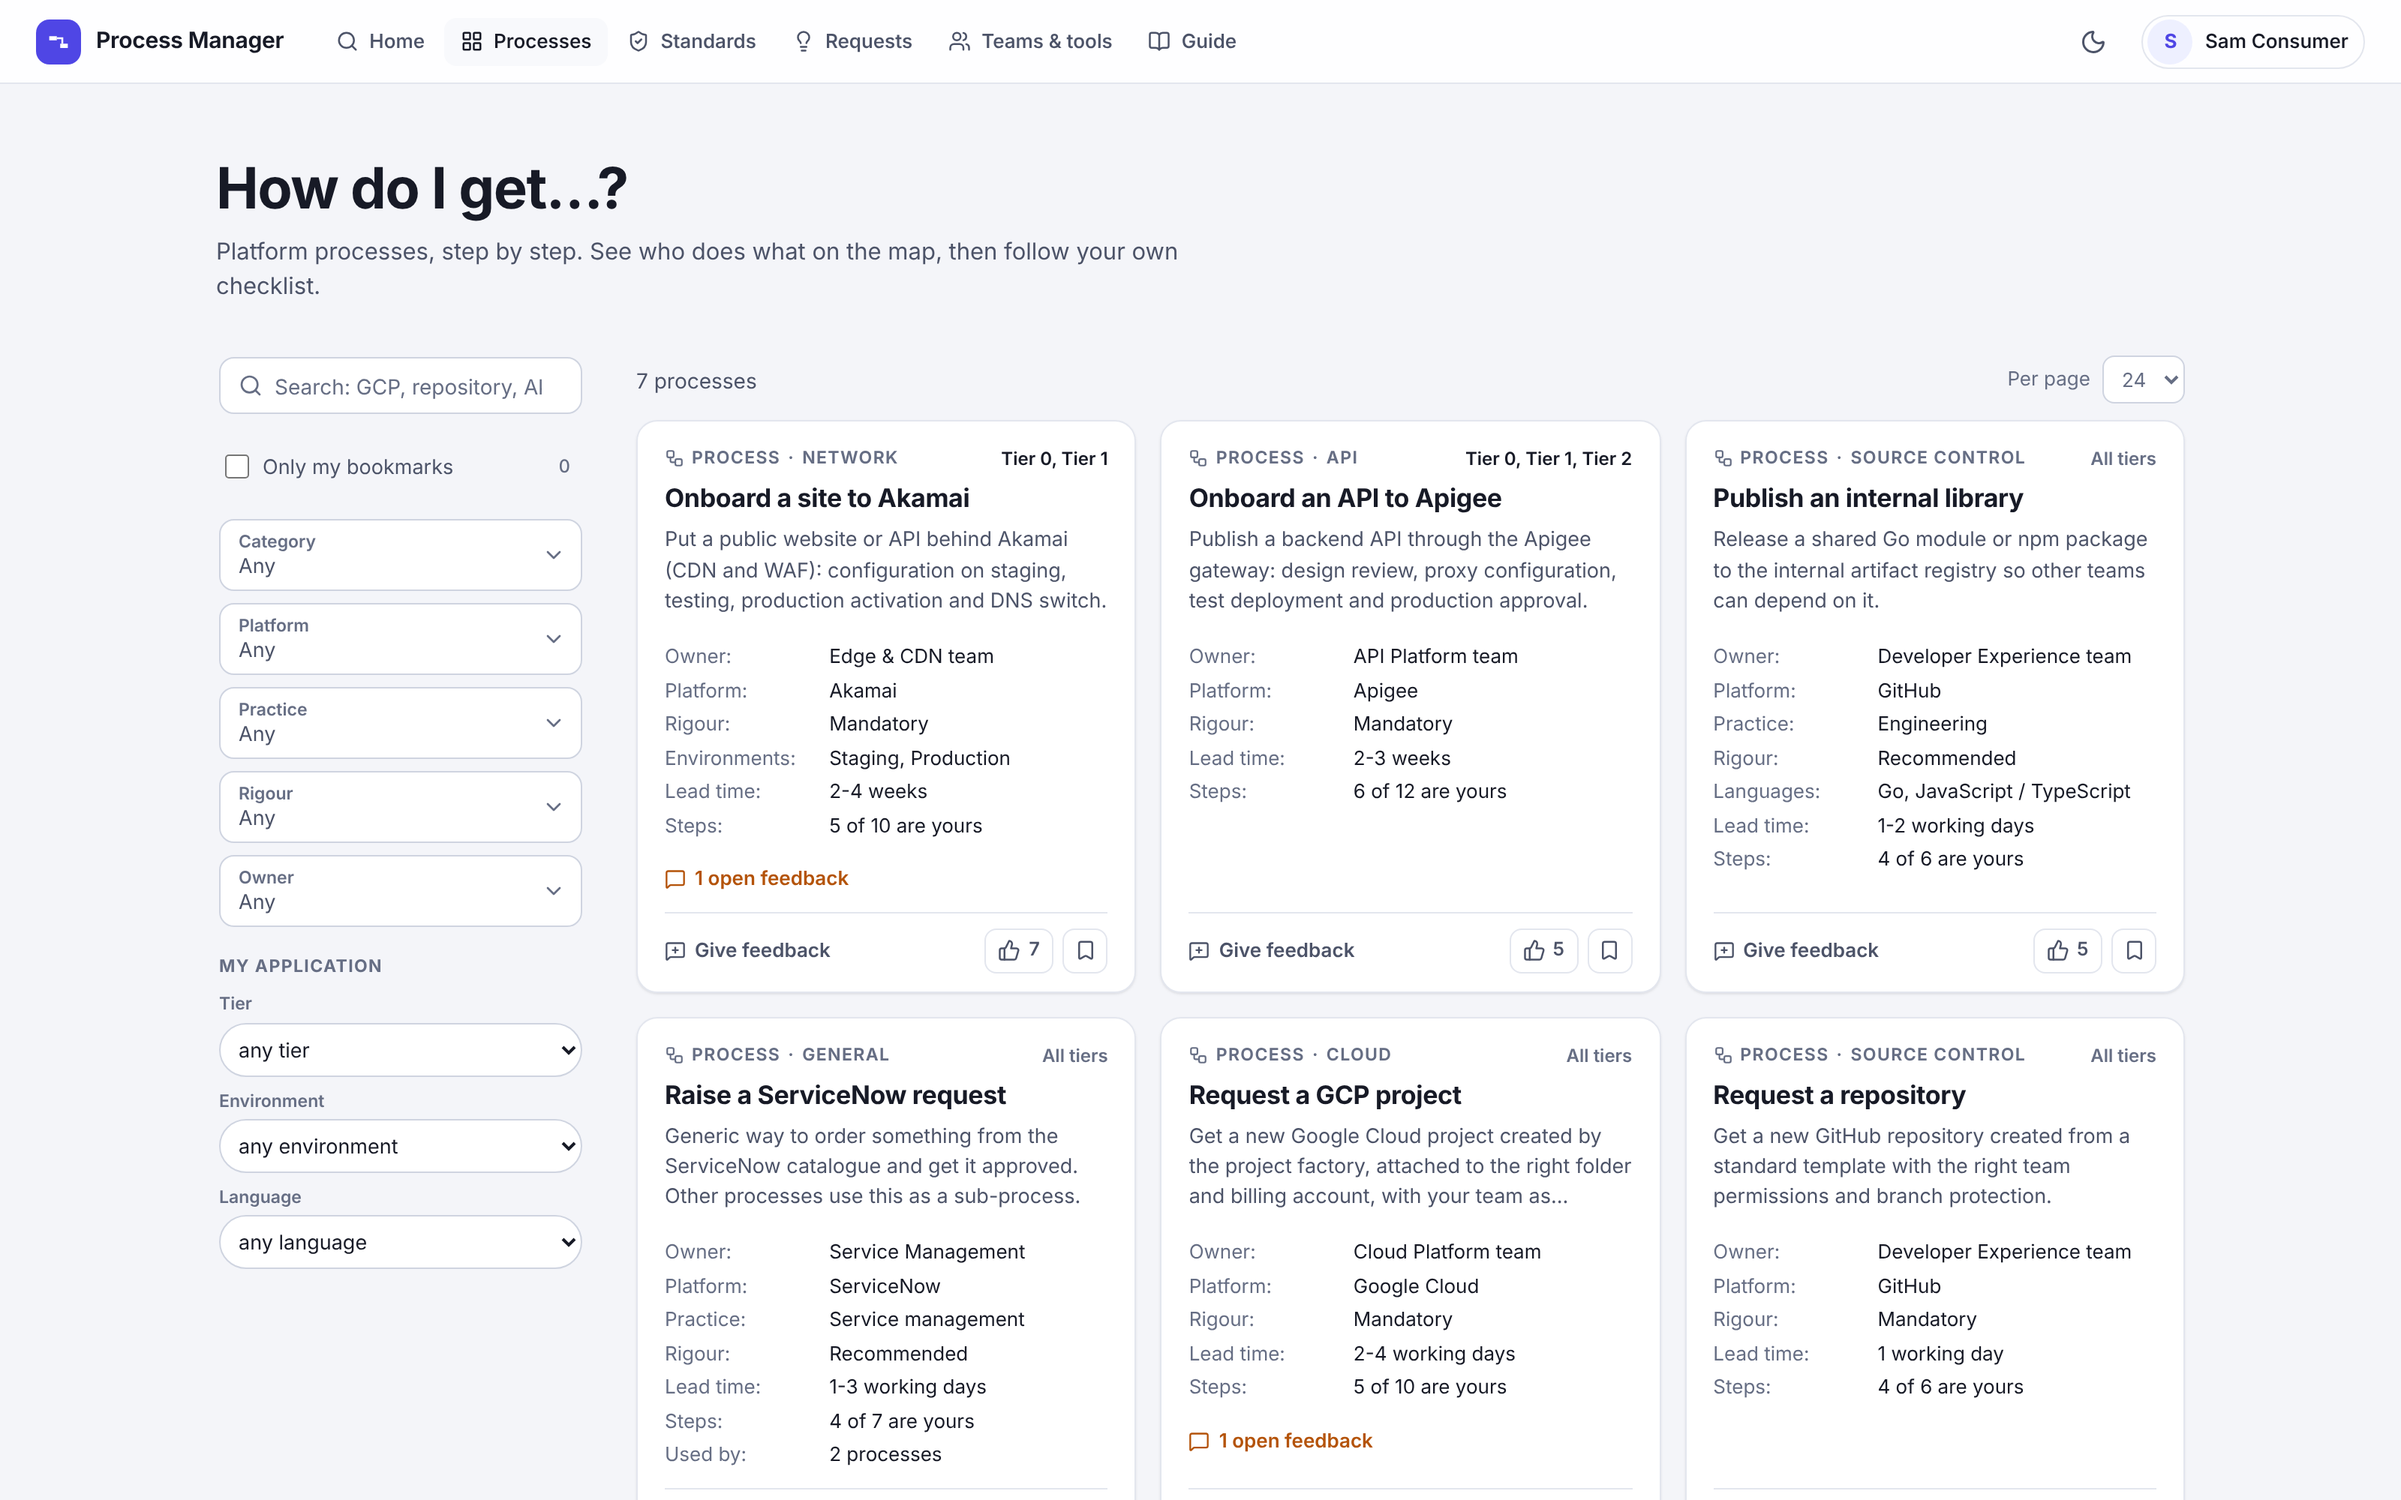
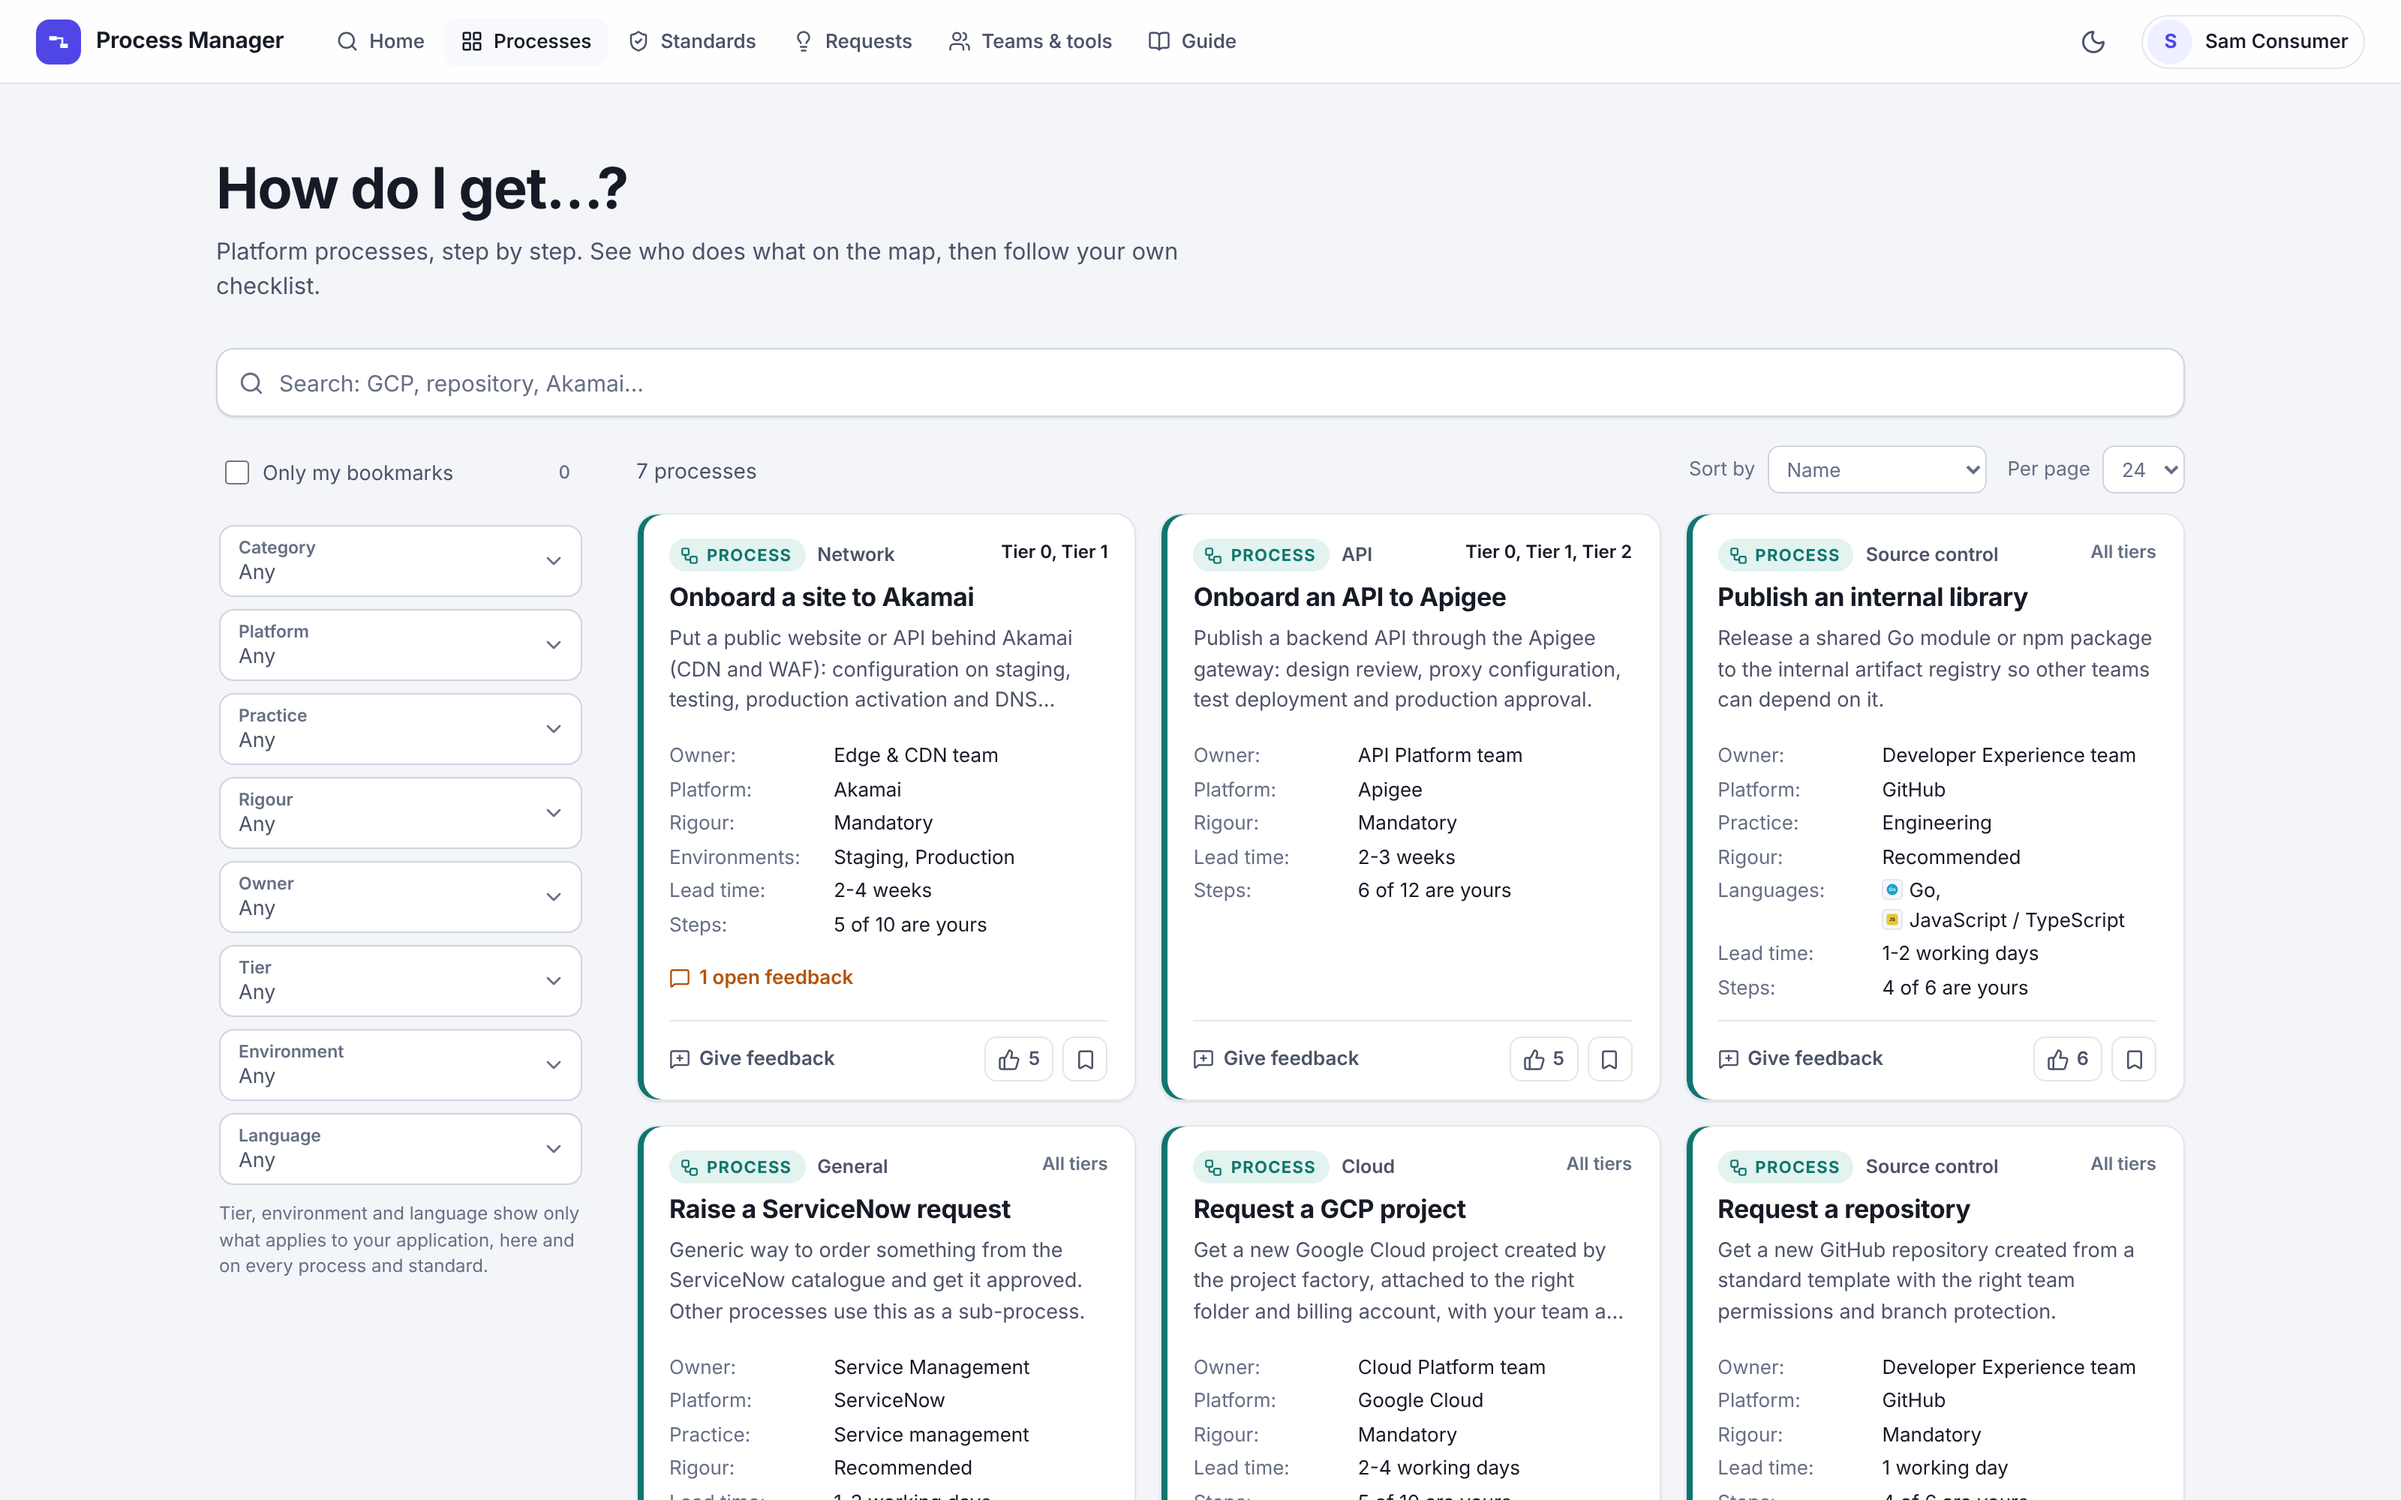
Work in progress: new screenshots, card language line, last test and dialog fixes
Claude-Session: https://claude.ai/code/session_011qCrvi8b2eDbxEg6hLHvxQ

Changed region(s): [[0.0938, 0.248, 0.9062, 1.0], [0.8438, 0.248, 0.9062, 0.31], [0.5625, 0.589, 0.625, 0.62]]

diff --git a/e2e/icons.spec.ts b/e2e/icons.spec.ts
@@ -92,10 +92,36 @@ test("a lists manager uploads a PNG and an SVG made here; readers see them on th
   // and next to the step's Tool field on the editing screen
   await open(page, "/p/publish-internal-library/edit/create-namespace");
   await expect(page.locator(".edit-fields .with-icon").locator(`img.entry-icon[src="/api/icons/${sha(image)}"]`)).toBeVisible();
+  // the step's panel says which tool it is done in, with its icon and, where the tool has an
+  // address, a link that opens it; the checklist shows the icon too
+  await block.locator(".block-main").click();
+  await expect(r.locator(".drawer .step-fact-tool")).toContainText("Artifact registry");
+  await expect(r.locator(`.drawer .step-fact-tool img.entry-icon[src="/api/icons/${sha(image)}"]`)).toBeVisible();
+  await expect(r.locator(".drawer a.step-tool")).toHaveCount(0); // no address in the lists: no link
+  await r.locator(".drawer").getByRole("button", { name: "Close" }).click();
+  await r.locator(".block", { hasText: "Add the release workflow" }).locator(".block-main").click();
+  const github = r.locator(".drawer .step-fact-tool").getByRole("link", { name: /GitHub/ });
+  await expect(github).toHaveAttribute("href", "https://github.example.com");
+  await expect(github).toHaveAttribute("target", "_blank");
+  await expect(github).toHaveAttribute("rel", "noopener noreferrer");
+  await expect(github.locator("img.entry-icon")).toBeVisible();
+  await expect(r.locator(".drawer .step-fact-time")).toHaveText(/^Takes \S/); // words a screen reader reads apart
+  await expect(r.locator(".drawer .step-fact-tool")).toHaveText(/^Done in \S/);
+  await open(r, "/p/publish-internal-library/list");
+  await expect(r.locator("#step-create-namespace .step-kicker .step-tool").locator(`img.entry-icon[src="/api/icons/${sha(image)}"]`)).toBeVisible();
+  await expect(r.locator("#step-create-namespace .step-kicker a")).toHaveCount(0);
   // a language icon on a card
   await open(r, "/processes");
   await expect(r.locator('li.card[data-id="publish-internal-library"] .card-entry img.entry-icon').first()).toBeVisible();
   await ctx.close();
+
+  // the activity log says what was added in words, without the id
+  await signIn(page, DANA);
+  await open(page, "/admin/activity");
+  const entry = page.locator(".activity li", { hasText: "added an icon" }).filter({ hasText: "PNG image, 32 × 32" }).first();
+  await expect(entry).toContainText("Alex Editor added an icon · PNG image, 32 × 32");
+  await expect(entry).not.toContainText(sha(image));
+  await expect(page.locator(".activity li", { hasText: "added an icon" }).filter({ hasText: "SVG" }).first()).toBeVisible();
 });
 
 test("refusals are shown as the server says them, and “Remove icon” takes it away", async ({ page }) => {

diff --git a/e2e/users.spec.ts b/e2e/users.spec.ts
@@ -102,6 +102,27 @@ test("Edit adds a second platform and takes a role away in one save; the summary
   await expect(page.locator(".activity li").first()).toContainText("added Platform owner for the platform Azure; removed Practice owner for the practice Engineering");
 });
 
+test("on a small laptop the roles dialog keeps its summary, Cancel and Save in view, with many lines", async ({ page }) => {
+  await page.setViewportSize({ width: 1024, height: 768 });
+  await signIn(page, DANA);
+  await open(page, "/admin/access");
+  await page.getByRole("button", { name: "Edit Jordan Platform" }).click();
+  const dialog = page.getByRole("dialog", { name: "Roles of Jordan Platform" });
+  for (const [n, name] of [[2, "Azure"], [3, "Akamai"]] as const) {
+    await dialog.getByRole("button", { name: "Another platform" }).click();
+    await dialog.getByRole("combobox", { name: `Platform owner: platform ${n}` }).selectOption({ label: name });
+  }
+  await dialog.getByRole("button", { name: "Another practice" }).click();
+  await expect(dialog.getByRole("heading", { name: "Roles of Jordan Platform" })).toBeInViewport();
+  for (const part of [dialog.locator(".roles-summary"), dialog.getByRole("button", { name: "Cancel" }), dialog.getByRole("button", { name: "Save" })]) await expect(part).toBeInViewport({ ratio: 1 });
+  await expect(dialog.locator(".roles-summary")).toHaveText("Gives: Platform owner for Akamai, Platform owner for Azure");
+  // Save with an unfinished line: the reason, and the buttons still in view
+  await dialog.getByRole("button", { name: "Save" }).click();
+  await expect(dialog.locator(".roles-problems")).toBeInViewport();
+  await expect(dialog.getByRole("button", { name: "Save" })).toBeInViewport({ ratio: 1 });
+  await dialog.getByRole("button", { name: "Cancel" }).click();
+});
+
 test("Delete asks, removes every role, and the person can still read", async ({ page, request }) => {
   await as(request, DANA);
   expect((await request.put(`/api/admin/users/${SAM}`, { data: { roles: [{ role: "standards-editor", scope: "" }, { role: "owner", scope: "dns-team" }] }, headers: CSRF })).ok()).toBeTruthy();

diff --git a/e2e/layout.spec.ts b/e2e/layout.spec.ts
@@ -240,6 +240,24 @@ for (const theme of ["light", "dark"] as const) {
   });
 }
 
+test("the editing bar reads “Back” and “More” on a tablet, and keeps their full names for screen readers", async ({ page }) => {
+  await signIn(page, DANA);
+  for (const [width, words] of [[1440, ["Back to reading", "More"]], [900, ["Back", "More"]], [700, ["", ""]]] as const) {
+    await page.setViewportSize({ width, height: 800 });
+    await open(page, "/p/request-gcp-project/edit");
+    const back = page.locator(".edit-bar").getByRole("button", { name: "Back to reading", exact: true });
+    const more = page.locator(".edit-bar").getByRole("button", { name: "More", exact: true });
+    await expect(back).toBeInViewport({ ratio: 1 });
+    await expect(more).toBeInViewport({ ratio: 1 });
+    expect((await back.innerText()).trim(), `Back at ${width}px`).toBe(words[0]);
+    expect((await more.innerText()).trim(), `More at ${width}px`).toBe(words[1]);
+    // its menu opens on the screen, wherever the button ended up on the bar
+    await more.click();
+    for (const it of await page.getByRole("menu", { name: "More" }).getByRole("menuitem").all()) await expect(it, `menu at ${width}px`).toBeInViewport({ ratio: 1 });
+    await page.keyboard.press("Escape");
+  }
+});
+
 for (const theme of ["light", "dark"] as const) {
   test(`Home, Access with its roles dialog, and the icon field fit every width in the ${theme} theme`, async ({ page }) => {
     test.setTimeout(60_000);

diff --git a/src/components/StepDrawer.tsx b/src/components/StepDrawer.tsx
@@ -31,8 +31,8 @@ export function StepDrawer({ process, all, step, onClose, onSelect, feedback, re
           <h3 id={titleId}>{step.title}</h3>
           {(step.tool || step.duration) && (
             <p className="step-facts">
-              {step.tool && <span className="step-fact-tool"><span className="label">Done in</span><StepTool id={step.tool} link size={16} /></span>}
-              {step.duration && <span className="step-fact-time"><Clock size={13} aria-hidden="true" /><span className="label">Takes</span>{step.duration}</span>}
+              {step.tool && <span className="step-fact-tool"><span className="label">Done in</span>{" "}<StepTool id={step.tool} link size={16} /></span>}
+              {step.duration && <span className="step-fact-time"><Clock size={13} aria-hidden="true" /><span className="label">Takes</span>{" "}{step.duration}</span>}
             </p>
           )}
         </div>

diff --git a/src/components/EditSession.tsx b/src/components/EditSession.tsx
@@ -144,7 +144,12 @@ function SessionInner<T extends Doc>({ o, draftKind, initial, restart, children 
   const gone = useRef(false);
   const [isGone, setGone] = useState(false);
   const markGone = () => { gone.current = true; setGone(true); };
-  const recreate = (doc: T, note: string) => opts.current.onSave({ ...doc, status: "draft" }, 0, note || "Restored after it was deleted");
+  const recreate = async (doc: T, note: string) => {
+    const v = await opts.current.onSave({ ...doc, status: "draft" }, 0, note || "Restored after it was deleted");
+    // it is back: a draft again (one that was never published does not start the screen afresh)
+    gone.current = false; setGone(false);
+    return v;
+  };
   const d = useDraft<T>({
     docKey: `${kind}/${id}`, what: `this ${noun}`, tidy: o.tidy, stamp: o.stamp,
     saved: working?.doc ?? o.doc,

diff --git a/e2e/editing.spec.ts b/e2e/editing.spec.ts
@@ -393,6 +393,7 @@ test("More > Versions restores an old version into the draft; readers keep the p
   await more(page, "Versions");
   const versions = page.getByRole("dialog", { name: /Versions of/ });
   await expect(versions.locator(".history > li").first()).toContainText("Second summary");
+  await expect(versions).toContainText("Restoring one puts it into your draft on this screen: nothing is kept until you save the draft, and readers see nothing until you publish.");
   await versions.locator(".history > li").nth(1).getByRole("button", { name: "Restore" }).click();
   await expect(page.locator(".toast", { hasText: "Version 1 is now in your draft" })).toBeVisible();
   await expect(editState(page)).toHaveAttribute("aria-label", /^Unpublished changes\. Readers still see version 2\./);

diff --git a/src/components/DocCard.tsx b/src/components/DocCard.tsx
@@ -116,7 +116,7 @@ export function DocCard({ kind, doc, rigour, rules, hits = [], words = [], openF
             <div key={l.key} className={`card-line ${l.warn ? "warn" : ""}`.trim()} data-line={l.key}>
               <dt>{l.name}:</dt>
               <dd>{l.items?.some((x) => x.icon) ? l.items.map((x, i) => (
-                <span key={i} className="card-entry">{i > 0 && ", "}<EntryIcon icon={x.icon} size={14} />{x.name}</span>
+                <Fragment key={i}><span className="card-entry"><EntryIcon icon={x.icon} size={14} />{x.name}{i < l.items!.length - 1 && ","}</span>{" "}</Fragment>
               )) : l.value}</dd>
             </div>
           ))}

diff --git a/src/edit.css b/src/edit.css
@@ -222,6 +222,8 @@
   .eb-back, .more-menu .eb-btn { padding: 0 10px; }
   /* the bar takes a second row when its parts do not fit on one */
   .edit-bar { flex-wrap: wrap; }
+  /* when the actions wrap, More starts the second row at the left edge: its menu opens to the right */
+  .more-menu .menu-pop { right: auto; left: 0; }
   .edit-body { grid-template-columns: minmax(0, 1fr) 340px; }
 }
 /* a phone: the fields slide over too, the bar takes two rows */

diff --git a/README.md b/README.md
@@ -19,6 +19,10 @@ From both, the portal generates **skills for AI coding assistants** and, for sta
 
 ![Map view](docs/map.png)
 
+![The editing screen](docs/editing.png)
+
+![Publishing a change](docs/publish.png)
+
 ## Run it locally
 
 You need Node 22, Go 1.26 and Docker.
@@ -88,6 +92,8 @@ React + Vite frontend; Go server; Postgres. Everything people change lives in th
 
 ![Requests for what is missing](docs/requests.png)
 
+![Sharing a process](docs/share.png)
+
 The in-app **Guide** (top bar) is the main documentation and describes all of this, with flow charts drawn by the app's own map.
 
 ![Guide](docs/guide.png)
@@ -114,7 +120,11 @@ The first admins are named in the server setting `PM_ADMINS`.
 
 ![Admin panel](docs/admin.png)
 
+![The roles of one person](docs/roles.png)
+
 ![A platform and its members](docs/platforms.png)
+
+![Tools with their icons](docs/tools.png)
 
 ![Statistics](docs/statistics.png)
 
